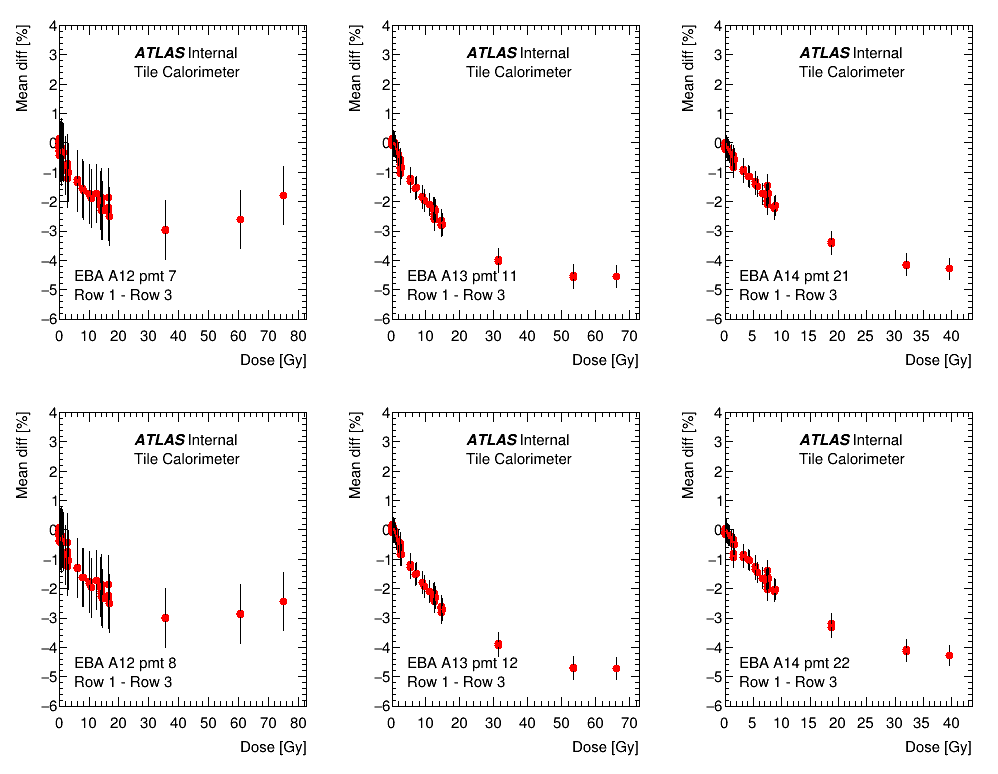
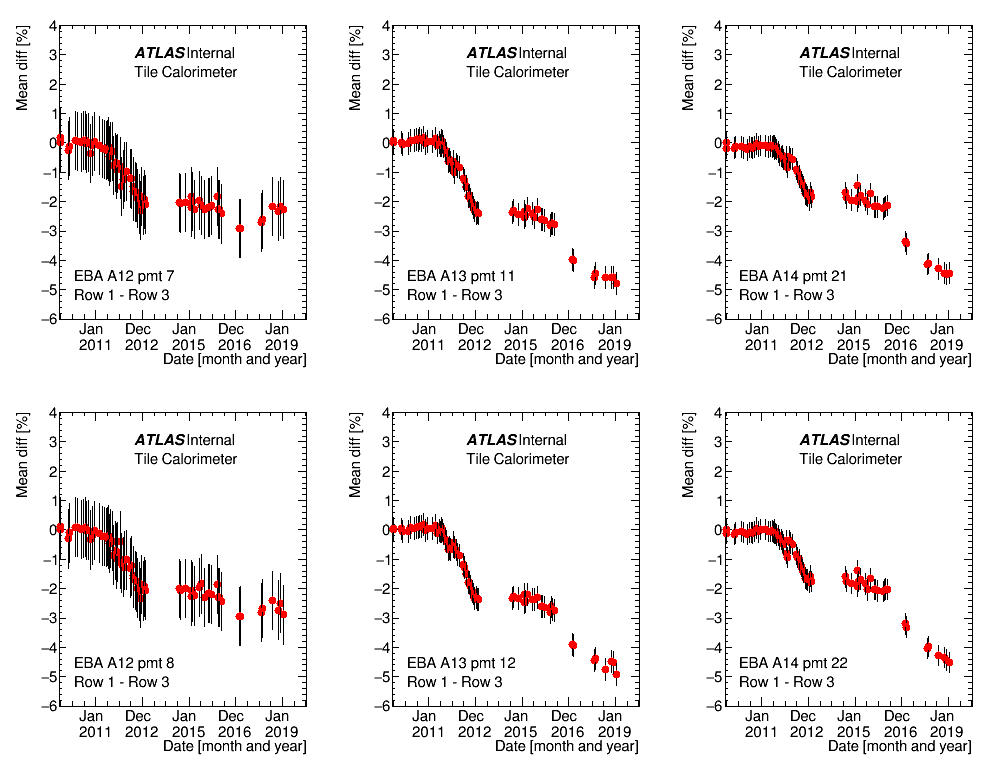
Added the last points (December 2018 and January 2019) to the degradation vs time plot. Checked these points were indeed missing.

diff --git a/showratio.cpp b/showratio.cpp
@@ -296,16 +296,6 @@ int showratio_row(const char *partition, vector<int> & runs, int row1, int row2,
           R1.good[imod][ip][row] = (R1.problems[imod][ip][row]<16 && R1.integrals[imod][ip][row]>300);
         }
         if (R1.good[imod][ip][row1] && R1.good[imod][ip][row2]) {
-       //   float r1=R1.integrals[imod][ip][row1]/R1.integrals[imod][ip][row2];
-         // if (goodR[imod][ip]) {
-         //   float v1 = (r1-1.);
-         //   float v2 = (int_ratio[imod][ip]-1.);
-         //   if (fabs(v1)<fabs(v2)) {
-         //     int_ratio[imod][ip] = r1;
-         //   } 
-         // } else {
-         //   int_ratio[imod][ip] = r1;
-         //}
           int_ratio[imod][ip] = R1.integrals[imod][ip][row1]/R1.integrals[imod][ip][row2];
           goodR[imod][ip] = true;
         }
@@ -333,22 +323,23 @@ int showratio_row(const char *partition, vector<int> & runs, int row1, int row2,
       }
     }
     //cout << "FILLING the hists" << endl;
-    //mean.push_back(hist[ip]->GetMean());
+    mean.push_back(hist[ip]->GetMean());
     if (hist[ip]->GetEntries() > 0) {
       rms.push_back(hist[ip]->GetRMS());
-      hist[ip]->Fit("gaus", "", "", -20, 20);
-      TF1* ffun = hist[ip]->GetFunction("gaus");
-      double Mean = ffun->GetParameter(1);
-      mean.push_back(Mean);
+    //  hist[ip]->Fit("gaus", "", "", -20, 20);
+    //  TF1* ffun = hist[ip]->GetFunction("gaus");
+    //  double Mean = ffun->GetParameter(1);
+    //  mean.push_back(Mean);
       //cout << "PMT: " << ip+1 << " RMS: " << hist[ip]->GetRMS() << endl;
     } else {
       rms.push_back(-0.1);
-      mean.push_back(-0.1);
+    //  mean.push_back(-0.1);
     }
    }
   
   //Drawing
   //create all canvas
+  /*
     gROOT->SetStyle("Plain");
     gStyle->SetOptStat(111110);
     gStyle->SetOptFit(1111);
@@ -379,6 +370,7 @@ int showratio_row(const char *partition, vector<int> & runs, int row1, int row2,
     sname.Form("c_%s_run_%5.5d_r%d_r%d.png",partition, runs[runs.size()-1], row1+1, row2+1);
     C->SaveAs(sname);
     delete C;
+  */
   return 0;
 }
 ///////////////////////////////////////////////////SHOWRATIO_ROW//////////////////////////////////////////////////////////////////

diff --git a/CountROW.cpp b/CountROW.cpp
@@ -279,14 +279,14 @@ void CountROW(const char *partition, int row_1, int row_2, int iopt=4)
     }
     err_y.clear();
     err_y.resize(nsetsize, ratio_rms(ipart,ip,row_1-1,row_2-1));
-    //TGraphErrors *gr = new TGraphErrors(date_all[ip].size(),&(date_all[ip][0]),&(mean_all[ip][0]),&(err_x[0]),&(err_y[0]));
-    TGraphErrors *gr = new TGraphErrors(dose_all[ip].size(),&(dose_all[ip][0]),&(mean_all[ip][0]),&(err_x[0]),&(err_y[0]));
+    TGraphErrors *gr = new TGraphErrors(date_all[ip].size(),&(date_all[ip][0]),&(mean_all[ip][0]),&(err_x[0]),&(err_y[0]));
+    //TGraphErrors *gr = new TGraphErrors(dose_all[ip].size(),&(dose_all[ip][0]),&(mean_all[ip][0]),&(err_x[0]),&(err_y[0]));
     gr->SetName(sname);
     gr->SetTitle(stitle);
-    //gr->GetXaxis()->SetTitle("Date [month and year]");
-    gr->GetXaxis()->SetTitle("Dose [Gy]");
-    //gr->GetXaxis()->SetTimeDisplay(1);
-    //gr->GetXaxis()->SetTimeFormat(timeformat); 
+    gr->GetXaxis()->SetTitle("Date [month and year]");
+    //gr->GetXaxis()->SetTitle("Dose [Gy]");
+    gr->GetXaxis()->SetTimeDisplay(1);
+    gr->GetXaxis()->SetTimeFormat(timeformat); 
     gr->GetXaxis()->SetLabelOffset(0.02); 
     gr->GetYaxis()->SetTitle("Mean diff [%]");
     gr_diff[ip] = gr;
